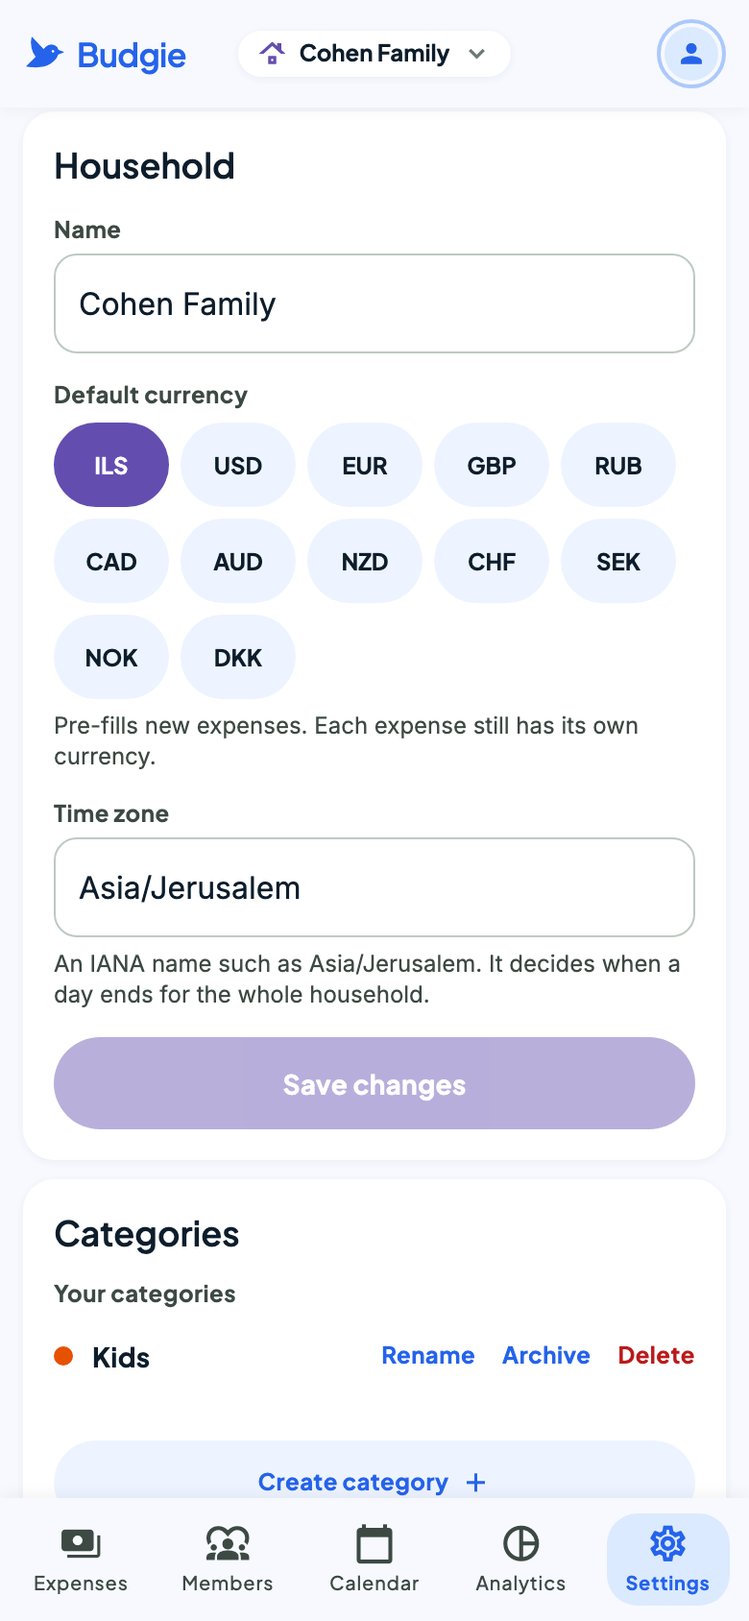
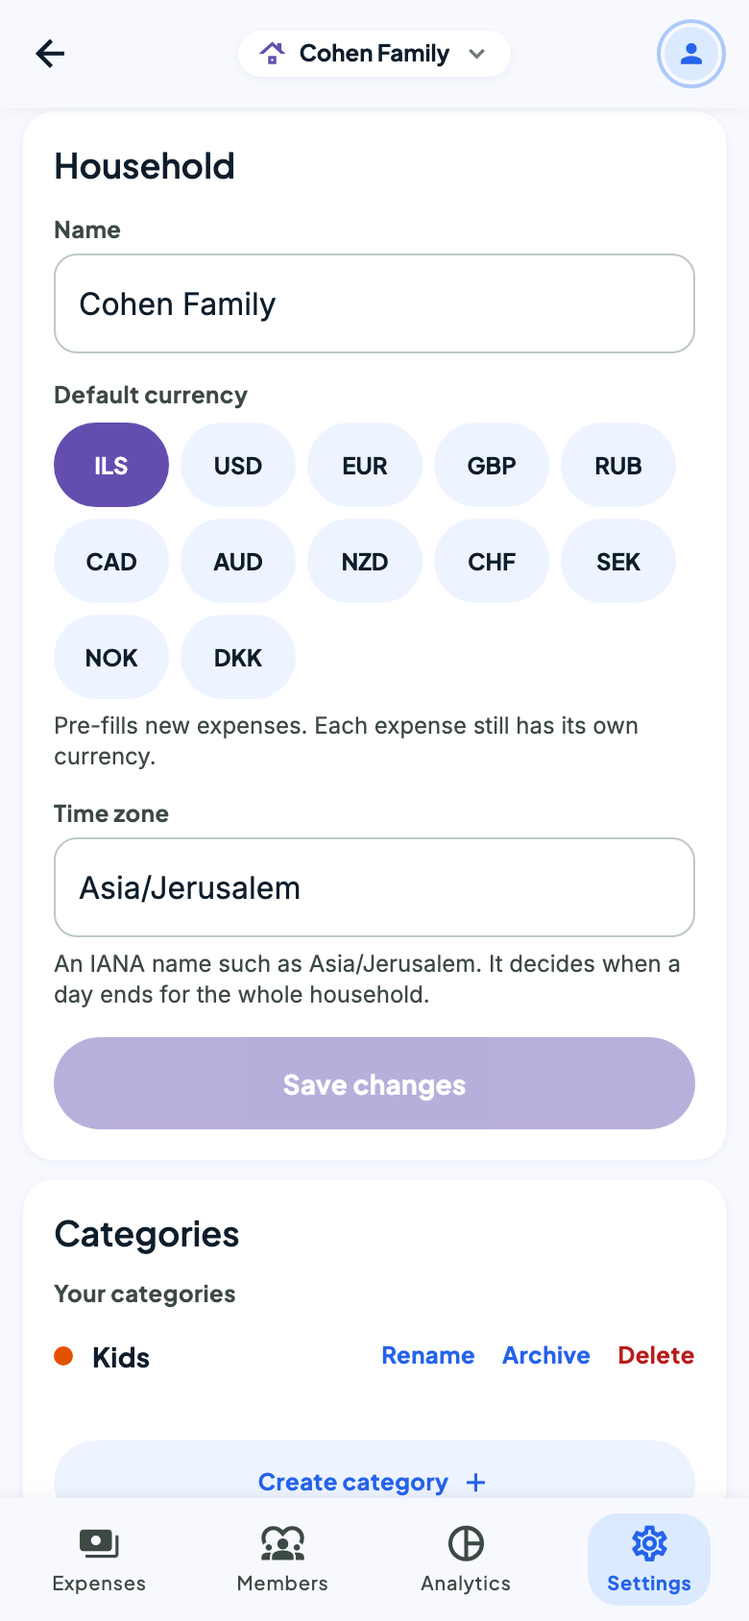
Polish navigation, calendar and home cards
- Household tabs show a back arrow to the households list
- Account menu: the name opens the profile
- Calendar tab hidden for now; tapping a calendar day lists its expenses
- Welcome screen lists Analytics
- Household cards show the whole household's total for the month
- README screenshots retaken

diff --git a/apps/mobile/src/home/CalendarCard.tsx b/apps/mobile/src/home/CalendarCard.tsx
@@ -1,11 +1,11 @@
-import { StyleSheet, Text, View } from "react-native";
-import { router } from "expo-router";
-import { Button } from "../components/Button";
+import { useState } from "react";
+import { Pressable, StyleSheet, Text, View } from "react-native";
 import { Card } from "../components/Card";
 import { Icon } from "../components/Icon";
 import type { CalendarMonth, Category } from "../api/types";
 import { categoryColor } from "../lib/categoryColors";
-import { monthGrid, monthLabel } from "../lib/dates";
+import { longDateLabel, monthGrid, monthLabel } from "../lib/dates";
+import { formatMoney } from "../lib/money";
 import { colors, fonts } from "../theme";
 
 const WEEKDAYS = ["S", "M", "T", "W", "T", "F", "S"];
@@ -15,7 +15,9 @@ type Dot = { categoryId: number; scheduled: boolean };
 
 // A month grid with today highlighted. Each day shows one dot per category (up to 3), in the category's color:
 // filled for real expenses, hollow for future occurrences of recurring rules. `today` is the household's date.
+// Tapping a day with dots (or hovering it, on the web) lists that day's expenses by name under the grid.
 export function CalendarCard({ calendar, today, categories }: { calendar: CalendarMonth; today: string; categories: Category[] }) {
+  const [picked, setPicked] = useState<string | null>(null);
   const dotsByDay = new Map<string, Dot[]>();
   const add = (date: string, dot: Dot) => {
     const dots = dotsByDay.get(date) ?? [];
@@ -44,16 +46,25 @@ export function CalendarCard({ calendar, today, categories }: { calendar: Calend
           const dots = c.inMonth ? (dotsByDay.get(c.date) ?? []).slice(0, MAX_DOTS) : [];
           return (
             <View key={c.date} style={styles.cell}>
-              <View style={[styles.dayBox, isToday && styles.today]}>
+              <Pressable
+                onPress={() => setPicked((cur) => (cur === c.date ? null : c.date))}
+                onHoverIn={() => setPicked(c.date)}
+                disabled={dots.length === 0}
+                accessibilityRole="button"
+                accessibilityLabel={`${longDateLabel(c.date)}: show its expenses`}
+                accessibilityState={{ selected: picked === c.date, disabled: dots.length === 0 }}
+                style={[styles.dayBox, isToday && styles.today, picked === c.date && styles.picked]}
+              >
                 <Text style={[styles.day, !c.inMonth && styles.otherMonth, isToday && styles.todayText]}>{c.day}</Text>
                 <View style={styles.dots}>
                   {dots.map((d) => <CategoryDot key={`${d.categoryId}-${d.scheduled}`} color={categoryColor(d.categoryId)} hollow={d.scheduled} />)}
                 </View>
-              </View>
+              </Pressable>
             </View>
           );
         })}
       </View>
+      {picked && <DayList date={picked} calendar={calendar} today={today} onClose={() => setPicked(null)} />}
       {legend.length > 0 && (
         <View style={styles.legend}>
           {legend.map((c) => (
@@ -68,8 +79,33 @@ export function CalendarCard({ calendar, today, categories }: { calendar: Calend
         <View style={styles.legendItem}><CategoryDot color={colors.outline} /><Text style={styles.legendText}>Paid</Text></View>
         <View style={styles.legendItem}><CategoryDot color={colors.outline} hollow /><Text style={styles.legendText}>Scheduled recurring</Text></View>
       </View>
-      <Button label="open calendar view" variant="tonal" icon="arrow-forward" compact onPress={() => router.navigate("/calendar")} />
     </Card>
+  );
+}
+
+// the picked day's expenses by name, then its scheduled recurring ones (future days only)
+function DayList({ date, calendar, today, onClose }: { date: string; calendar: CalendarMonth; today: string; onClose: () => void }) {
+  const items = [
+    ...calendar.expenses.filter((e) => e.date === date).map((e) => ({ key: `e${e.id}`, name: e.name, amount: e.amount, currency: e.currency, categoryId: e.categoryId, scheduled: false })),
+    ...calendar.projected.filter((p) => p.date === date && p.date > today).map((p) => ({ key: `p${p.ruleId}`, name: p.name, amount: p.amount, currency: p.currency, categoryId: p.categoryId, scheduled: true })),
+  ];
+  if (items.length === 0) return null;
+  return (
+    <View style={styles.dayList} accessibilityLiveRegion="polite">
+      <View style={styles.dayListHeader}>
+        <Text style={styles.dayListTitle}>{longDateLabel(date)}</Text>
+        <Pressable onPress={onClose} accessibilityRole="button" accessibilityLabel="Close" hitSlop={12}>
+          <Icon name="close" size={16} color={colors.outline} />
+        </Pressable>
+      </View>
+      {items.map((it) => (
+        <View key={it.key} style={styles.dayItem}>
+          <CategoryDot color={categoryColor(it.categoryId)} hollow={it.scheduled} />
+          <Text style={styles.dayItemName} numberOfLines={1}>{it.name}{it.scheduled ? " (scheduled)" : ""}</Text>
+          <Text style={styles.dayItemAmount}>{formatMoney(it.amount, it.currency)}</Text>
+        </View>
+      ))}
+    </View>
   );
 }
 
@@ -85,10 +121,18 @@ const styles = StyleSheet.create({
   grid: { flexDirection: "row", flexWrap: "wrap", rowGap: 2 },
   cell: { width: `${100 / 7}%`, alignItems: "center" },
   weekday: { fontFamily: fonts.jakarta600, fontSize: 11, lineHeight: 16, paddingVertical: 4, color: colors.outline, textAlign: "center" },
-  dayBox: { width: 40, alignItems: "center", paddingTop: 5, paddingBottom: 4, borderRadius: 10 },
+  // 44dp, the minimum touch target, now that a day can be tapped
+  dayBox: { width: 44, minHeight: 44, alignItems: "center", paddingTop: 6, paddingBottom: 4, borderRadius: 10 },
   day: { fontFamily: fonts.inter500, fontSize: 14, lineHeight: 18, color: colors.onSurface },
   otherMonth: { color: "rgba(109,122,115,0.4)" },
   today: { backgroundColor: colors.secondaryFixed },
+  picked: { borderWidth: 1.5, borderColor: colors.secondary },
+  dayList: { backgroundColor: colors.surfaceContainerLow, borderRadius: 12, padding: 10, gap: 6 },
+  dayListHeader: { flexDirection: "row", alignItems: "center", justifyContent: "space-between" },
+  dayListTitle: { fontFamily: fonts.jakarta700, fontSize: 12, lineHeight: 16, color: colors.onSurface },
+  dayItem: { flexDirection: "row", alignItems: "center", gap: 8 },
+  dayItemName: { flex: 1, fontFamily: fonts.inter500, fontSize: 12, lineHeight: 16, color: colors.onSurface },
+  dayItemAmount: { fontFamily: fonts.jakarta700, fontSize: 12, lineHeight: 16, color: colors.onSurface },
   todayText: { color: colors.secondary, fontFamily: fonts.jakarta700 },
   dots: { flexDirection: "row", gap: 2, height: 6, marginTop: 3 },
   dot: { width: 6, height: 6, borderRadius: 3 },

diff --git a/apps/mobile/src/components/AccountMenu.tsx b/apps/mobile/src/components/AccountMenu.tsx
@@ -7,7 +7,7 @@ import { useSession } from "../auth/session";
 import { colors, MIN_TOUCH, radii, shadows, type as t } from "../theme";
 import { Icon, type IconName } from "./Icon";
 
-// The account icon in the header and its drop-down: who is signed in (tap for the account settings), and log out.
+// The account icon in the header and its drop-down: who is signed in (tap for the profile), and log out.
 export function AccountMenu() {
   const [open, setOpen] = useState(false);
   const insets = useSafeAreaInsets();
@@ -40,11 +40,11 @@ export function AccountMenu() {
         <Pressable style={StyleSheet.absoluteFill} onPress={() => setOpen(false)} accessibilityLabel="Close account menu" />
         {/* right under the header (56dp row below the status bar) */}
         <View style={[styles.menu, { top: insets.top + 52 }]}>
-          {/* the name opens the account settings (change name, change password, log out) */}
+          {/* the name opens the profile (what the user paid across households) */}
           <Pressable
-            onPress={() => { setOpen(false); router.push("/account-settings"); }}
+            onPress={() => { setOpen(false); router.push("/profile"); }}
             accessibilityRole="button"
-            accessibilityLabel="Account settings"
+            accessibilityLabel="Your profile"
             style={({ pressed }) => [styles.who, pressed && { backgroundColor: colors.surfaceContainerLow }]}
           >
             <View style={styles.whoText}>

diff --git a/apps/mobile/app/(tabs)/settings.tsx b/apps/mobile/app/(tabs)/settings.tsx
@@ -1,7 +1,7 @@
 import { useState } from "react";
 import { Alert, StyleSheet, Text } from "react-native";
 import { router } from "expo-router";
-import { AppHeader } from "../../src/components/AppHeader";
+import { AppHeader, useBackToHouseholds } from "../../src/components/AppHeader";
 import { Banner } from "../../src/components/Banner";
 import { Button } from "../../src/components/Button";
 import { Card } from "../../src/components/Card";
@@ -22,11 +22,12 @@ import { colors, type as t } from "../../src/theme";
 // Settings of the selected household: an owner edits its name, default currency and time zone, manages the
 // household's categories, or deletes it; a member can leave it. Log out is in the account menu (AppHeader).
 export default function SettingsScreen() {
+  const back = useBackToHouseholds();
   const { selectedId } = useHouseholdSelection();
   const household = useHousehold(selectedId);
 
   return (
-    <Screen inTabs header={<AppHeader center={selectedId !== null ? <HouseholdSwitcher /> : undefined} />}>
+    <Screen inTabs header={<AppHeader onBack={back} center={selectedId !== null ? <HouseholdSwitcher /> : undefined} />}>
       {selectedId === null ? (
         <Placeholder icon="settings" title="No household yet" text="Create a household to change its settings here." />
       ) : household.isError ? (

diff --git a/apps/mobile/src/home/HouseholdCard.tsx b/apps/mobile/src/home/HouseholdCard.tsx
@@ -24,7 +24,7 @@ export function HouseholdCard({ household, onPress }: { household: MyHousehold; 
     <Pressable
       onPress={onPress}
       accessibilityRole="button"
-      accessibilityLabel={`${household.name}${amount && monthName ? `, spent in ${monthName} so far: ${amount}` : ""}`}
+      accessibilityLabel={`${household.name}${amount && monthName ? `, total spending of the entire household in ${monthName}: ${amount}` : ""}`}
       accessibilityHint="Opens the household"
       style={({ pressed }) => [styles.card, { backgroundColor: tint(color, pressed ? 0.14 : 0.07), borderColor: tint(color, 0.22) }]}
     >
@@ -37,7 +37,7 @@ export function HouseholdCard({ household, onPress }: { household: MyHousehold; 
         <Icon name="chevron-right" size={20} color={colors.outline} />
       </View>
       <View style={[styles.spent, { backgroundColor: tint(color, 0.17) }]}>
-        <Text style={styles.label}>{monthName ? `Spent in ${monthName} so far` : "Spent this month so far"}</Text>
+        <Text style={styles.label}>{monthName ? `Total spending of the entire household in ${monthName}` : "Total spending of the entire household this month"}</Text>
         {failed ? (
           <Text style={styles.error}>Couldn't load the totals. Pull down to try again.</Text>
         ) : amount ? (

diff --git a/apps/mobile/app/(tabs)/analytics.tsx b/apps/mobile/app/(tabs)/analytics.tsx
@@ -1,4 +1,4 @@
-import { AppHeader } from "../../src/components/AppHeader";
+import { AppHeader, useBackToHouseholds } from "../../src/components/AppHeader";
 import { Card } from "../../src/components/Card";
 import { HouseholdSwitcher } from "../../src/components/HouseholdSwitcher";
 import { Placeholder } from "../../src/components/Placeholder";
@@ -14,11 +14,12 @@ import { monthOf, todayInTimeZone } from "../../src/lib/dates";
 // The selected household's analytics: one month's spending by category or payer (a donut), and the last months' totals
 // (bars). Both read existing endpoints (calendar and summary); months are the household's.
 export default function AnalyticsScreen() {
+  const back = useBackToHouseholds();
   const { selectedId } = useHouseholdSelection();
   const household = useHousehold(selectedId);
   const categories = useCategories(selectedId);
   const members = useMembers(selectedId);
-  const header = <AppHeader center={selectedId !== null ? <HouseholdSwitcher /> : undefined} />;
+  const header = <AppHeader onBack={back} center={selectedId !== null ? <HouseholdSwitcher /> : undefined} />;
 
   if (selectedId === null)
     return (

diff --git a/apps/mobile/src/components/AppHeader.tsx b/apps/mobile/src/components/AppHeader.tsx
@@ -1,10 +1,18 @@
-import type { ReactNode } from "react";
+import { useCallback, type ReactNode } from "react";
 import { Pressable, StyleSheet, View } from "react-native";
 import { useSafeAreaInsets } from "react-native-safe-area-context";
+import { useNavigation } from "expo-router";
 import { colors, MIN_TOUCH, shadows } from "../theme";
 import { Icon } from "./Icon";
 import { Wordmark } from "./Wordmark";
 import { AccountMenu } from "./AccountMenu";
+
+// The household tabs' back arrow: switch to the Expenses tab and go back to its first screen, the households list.
+// `pop` makes the Expenses stack return to the list already in it (a plain navigate would push a second copy).
+export function useBackToHouseholds() {
+  const navigation = useNavigation<{ navigate: (name: string, params: object) => void }>();
+  return useCallback(() => navigation.navigate("(home)", { screen: "index", pop: true }), [navigation]);
+}
 
 // The shared top bar: logo (or a back button), an optional center element (the household switcher) and the account menu.
 // A solid surface with a faint shadow (the mock's blur is left out on purpose).

diff --git a/apps/mobile/app/(tabs)/members.tsx b/apps/mobile/app/(tabs)/members.tsx
@@ -1,6 +1,6 @@
 import { useState } from "react";
 import { Alert, Pressable, Share, StyleSheet, Text, View } from "react-native";
-import { AppHeader } from "../../src/components/AppHeader";
+import { AppHeader, useBackToHouseholds } from "../../src/components/AppHeader";
 import { Banner } from "../../src/components/Banner";
 import { Button } from "../../src/components/Button";
 import { Card } from "../../src/components/Card";
@@ -21,11 +21,12 @@ import { colors, fonts, MIN_TOUCH, type as t } from "../../src/theme";
 // The selected household's active members (the caller included, marked "You"), when each joined and their role.
 // An owner can remove the others and create invite links.
 export default function MembersScreen() {
+  const back = useBackToHouseholds();
   const { selectedId } = useHouseholdSelection();
   const household = useHousehold(selectedId);
   const members = useMembers(selectedId);
   const me = useMe();
-  const header = <AppHeader center={<HouseholdSwitcher />} />;
+  const header = <AppHeader onBack={back} center={<HouseholdSwitcher />} />;
 
   if (selectedId === null)
     return (

diff --git a/apps/mobile/app/(tabs)/calendar.tsx b/apps/mobile/app/(tabs)/calendar.tsx
@@ -1,11 +1,12 @@
-import { AppHeader } from "../../src/components/AppHeader";
+import { AppHeader, useBackToHouseholds } from "../../src/components/AppHeader";
 import { HouseholdSwitcher } from "../../src/components/HouseholdSwitcher";
 import { Placeholder } from "../../src/components/Placeholder";
 import { Screen } from "../../src/components/Screen";
 
 export default function CalendarScreen() {
+  const back = useBackToHouseholds();
   return (
-    <Screen inTabs header={<AppHeader center={<HouseholdSwitcher />} />}>
+    <Screen inTabs header={<AppHeader onBack={back} center={<HouseholdSwitcher />} />}>
       <Placeholder icon="calendar-month" title="Calendar" text="The full month calendar with real and upcoming expenses is coming soon." />
     </Screen>
   );

diff --git a/apps/mobile/app/(auth)/welcome.tsx b/apps/mobile/app/(auth)/welcome.tsx
@@ -12,6 +12,7 @@ const FEATURES: { icon: IconName; title: string; text: string }[] = [
   { icon: "diversity-1", title: "Share a household", text: "Everyone logs what they paid, and you all see the month's spending." },
   { icon: "update", title: "Recurring expenses", text: "Rent, bills and subscriptions are added for you on schedule." },
   { icon: "calendar-month", title: "See what's ahead", text: "A calendar of what's been paid and what's still to come." },
+  { icon: "pie-chart", title: "Analytics", text: "Charts of your spending by category, by payer and month by month." },
 ];
 
 export default function WelcomeScreen() {

diff --git a/apps/mobile/src/components/TabBar.tsx b/apps/mobile/src/components/TabBar.tsx
@@ -11,7 +11,7 @@ export type TabBarProps = Parameters<NonNullable<ComponentProps<typeof Tabs>["ta
 const TABS: Record<string, { label: string; icon: IconName | { outline: OutlineIconName } }> = {
   "(home)": { label: "Expenses", icon: "payments" },
   members: { label: "Members", icon: "diversity-1" },
-  calendar: { label: "Calendar", icon: "calendar-today" },
+  // the Calendar tab is hidden for now (not built yet): a route missing here gets no button
   analytics: { label: "Analytics", icon: { outline: "chart-pie-outline" } },
   settings: { label: "Settings", icon: { outline: "cog-outline" } },
 };

diff --git a/claude.md b/claude.md
@@ -306,7 +306,7 @@ Never read, open, print or commit `.env` files or any API keys, tokens or connec
 
 ## Status
 
-Done: schema and migrations (`init`, `add_expense_name`, `recurring_rules_rework`), seeded categories, Cognito user pool, `requireAuth`, `requireMember` / `requireOwner`, validators, the household routes and services, the `/me` routes, invites (create, list, cancel, preview, join), categories (create, list, update, delete; done and tested), members list with `?includeFormer`, expenses (create, list with filters, keyset pagination and `totalCount`, get, update, delete; no future dates; done and tested), recurring rules (create, list, get, update, delete, the lazy generator, the 20-rule and 600-occurrence limits; done and tested), the calendar (`GET /:id/calendar?month=`, real expenses plus projected rule occurrences; done and tested), the monthly summary (`GET /:id/summary?month=`, per-currency spent and projected totals, sharing `projectMonth` with the calendar; done and tested), the caller's own monthly spending across households (`GET /me/spending?month=`; done and tested). Mobile app v1 (`apps/mobile`): Expo project, theme and shared components, a signed-out welcome screen, login, register and email-code confirmation, session gate, API client, household switcher and create-household form, the Expenses tab (households list with each household's spent-so-far; the household screen with monthly totals, the month's expenses and a mini calendar with category-colored dots), the Members tab (active members with "You", join date in the household's time zone and role; an owner can remove members and create an invite link shared through the share sheet, `budgie://join?token=…`, `src/lib/invite.ts`), the Settings tab (an owner edits name, default currency and time zone, manages the household's categories (rename, archive, delete; built-ins listed without actions, `src/settings/CategoriesCard.tsx`) or deletes the household; a member can leave), editing and removing expenses (an expanded expense row shows Edit and Remove to its payer, its creator or an owner, `canChangeExpense` in `src/lib/permissions.ts`; a recurring expense offers only "Edit description" and no Remove; `app/edit-expense.tsx?expenseId=` shares `src/expenses/ExpenseForm.tsx` with create and sends only the changed fields), a filter on the household screen's expense list ("Show: All / By category / By payer", then one of the categories or payers in that month's expenses; client-side over the month's expenses, `src/lib/expenseFilter.ts`, with the shown count and per-currency total; resets when the month changes), the create-expense and create-category screens (the "+" menu has, top to bottom, Create Expense, Photograph Receipt (a "coming soon" screen until receipts are built) and Create Recurring Expense; an empty month's expense list has its own "Create expense" button; create-category opens from the expense forms' "+ New category" and the owner's category settings; the expense form picks the date on a month calendar (`DatePicker`, days after the household's today disabled) with Today / Yesterday chips, amounts parsed by `parseAmount` in `money.ts`), month browsing on the household screen (`MonthNav`: "← September" back through past months, forward up to the household's current month; the summary, expense list and calendar follow the chosen month, which resets to the current one when the household changes), the household screen's Recurring expenses card (`src/home/RecurringCard.tsx`, all rules, ended ones last, with Edit and Delete for the payer, creator or owner; Delete asks whether to keep the rule's expenses (`?deleteExpenses=false`) or delete them too; this card is the way into a rule, since expense rows don't carry a rule id), editing a rule (`app/edit-rule.tsx?ruleId=`, the same `RuleForm`, sends only the changed fields, warns before a new start date or frequency recreates the rule's expenses, payer locked unless the caller is the creator or an owner), the create-recurring-expense screen (`app/create-rule.tsx`, `src/expenses/RuleForm.tsx`, from the "+" menu: frequency chips, start date on `DatePicker` up to today, optional end date on `DatePicker` from the start date, a one-line schedule summary from `scheduleSummary` in `src/lib/recurring.ts`), the account menu (`AccountMenu`, from the header's account icon: name and email, which open the account settings, and log out), the profile screen (`app/profile.tsx`, Profile in the households list's bar: a month picker (`MonthNav`, device time zone), each active household with what the user paid there that month (tap to open it), what they paid in each of the last 6 months (`MonthBarChart`, one `/me/spending` request per month) and the picked month split by household (`DonutChart`, household colors); the charts are shared with Analytics in `src/analytics/`), the account settings screen (`app/account-settings.tsx`, opened by Settings in the households list's bar: change name through `PATCH /me`, change password through Amplify's `updatePassword` (Cognito only), log out), the Analytics tab (`src/analytics/`: a donut of one month's real expenses grouped by category or payer, one currency at a time, with a month picker (`MonthNav`) and a labeled legend; a bar chart of the household's spent total for the last 6 months (`useSummaries`, one summary request per month); no backend changes, grouping in `src/lib/analytics.ts`), placeholder Calendar tab.
+Done: schema and migrations (`init`, `add_expense_name`, `recurring_rules_rework`), seeded categories, Cognito user pool, `requireAuth`, `requireMember` / `requireOwner`, validators, the household routes and services, the `/me` routes, invites (create, list, cancel, preview, join), categories (create, list, update, delete; done and tested), members list with `?includeFormer`, expenses (create, list with filters, keyset pagination and `totalCount`, get, update, delete; no future dates; done and tested), recurring rules (create, list, get, update, delete, the lazy generator, the 20-rule and 600-occurrence limits; done and tested), the calendar (`GET /:id/calendar?month=`, real expenses plus projected rule occurrences; done and tested), the monthly summary (`GET /:id/summary?month=`, per-currency spent and projected totals, sharing `projectMonth` with the calendar; done and tested), the caller's own monthly spending across households (`GET /me/spending?month=`; done and tested). Mobile app v1 (`apps/mobile`): Expo project, theme and shared components, a signed-out welcome screen, login, register and email-code confirmation, session gate, API client, household switcher and create-household form, the Expenses tab (households list with each household's spent-so-far; the household screen with monthly totals, the month's expenses and a mini calendar with category-colored dots), the Members tab (active members with "You", join date in the household's time zone and role; an owner can remove members and create an invite link shared through the share sheet, `budgie://join?token=…`, `src/lib/invite.ts`), the Settings tab (an owner edits name, default currency and time zone, manages the household's categories (rename, archive, delete; built-ins listed without actions, `src/settings/CategoriesCard.tsx`) or deletes the household; a member can leave), editing and removing expenses (an expanded expense row shows Edit and Remove to its payer, its creator or an owner, `canChangeExpense` in `src/lib/permissions.ts`; a recurring expense offers only "Edit description" and no Remove; `app/edit-expense.tsx?expenseId=` shares `src/expenses/ExpenseForm.tsx` with create and sends only the changed fields), a filter on the household screen's expense list ("Show: All / By category / By payer", then one of the categories or payers in that month's expenses; client-side over the month's expenses, `src/lib/expenseFilter.ts`, with the shown count and per-currency total; resets when the month changes), the create-expense and create-category screens (the "+" menu has, top to bottom, Create Expense, Photograph Receipt (a "coming soon" screen until receipts are built) and Create Recurring Expense; an empty month's expense list has its own "Create expense" button; create-category opens from the expense forms' "+ New category" and the owner's category settings; the expense form picks the date on a month calendar (`DatePicker`, days after the household's today disabled) with Today / Yesterday chips, amounts parsed by `parseAmount` in `money.ts`), month browsing on the household screen (`MonthNav`: "← September" back through past months, forward up to the household's current month; the summary, expense list and calendar follow the chosen month, which resets to the current one when the household changes), the household screen's Recurring expenses card (`src/home/RecurringCard.tsx`, all rules, ended ones last, with Edit and Delete for the payer, creator or owner; Delete asks whether to keep the rule's expenses (`?deleteExpenses=false`) or delete them too; this card is the way into a rule, since expense rows don't carry a rule id), editing a rule (`app/edit-rule.tsx?ruleId=`, the same `RuleForm`, sends only the changed fields, warns before a new start date or frequency recreates the rule's expenses, payer locked unless the caller is the creator or an owner), the create-recurring-expense screen (`app/create-rule.tsx`, `src/expenses/RuleForm.tsx`, from the "+" menu: frequency chips, start date on `DatePicker` up to today, optional end date on `DatePicker` from the start date, a one-line schedule summary from `scheduleSummary` in `src/lib/recurring.ts`), the account menu (`AccountMenu`, from the header's account icon: name and email, which open the profile, and log out), a back arrow instead of the wordmark on the household tabs (Members, Analytics, Settings: `useBackToHouseholds` in `AppHeader.tsx` switches to the Expenses tab and pops its stack back to the households list with `pop: true`), the Calendar tab hidden from the tab bar until it's built (its route stays; the calendar card no longer links to it), tapping a calendar day with dots (hovering, on the web) lists that day's expenses and scheduled ones by name under the grid, the profile screen (`app/profile.tsx`, Profile in the households list's bar: a month picker (`MonthNav`, device time zone), each active household with what the user paid there that month (tap to open it), what they paid in each of the last 6 months (`MonthBarChart`, one `/me/spending` request per month) and the picked month split by household (`DonutChart`, household colors); the charts are shared with Analytics in `src/analytics/`), the account settings screen (`app/account-settings.tsx`, opened by Settings in the households list's bar: change name through `PATCH /me`, change password through Amplify's `updatePassword` (Cognito only), log out), the Analytics tab (`src/analytics/`: a donut of one month's real expenses grouped by category or payer, one currency at a time, with a month picker (`MonthNav`) and a labeled legend; a bar chart of the household's spent total for the last 6 months (`useSummaries`, one summary request per month); no backend changes, grouping in `src/lib/analytics.ts`), placeholder Calendar tab (hidden from the tab bar).
 
 Next: the Calendar tab, joining with an invite (the `budgie://join` screen that reads the shared link's token), forgot password; backend: receipts (S3 upload and LLM categorization), spending Q&A, monthly reports (beyond the summary totals), the invite cleanup job.
 
